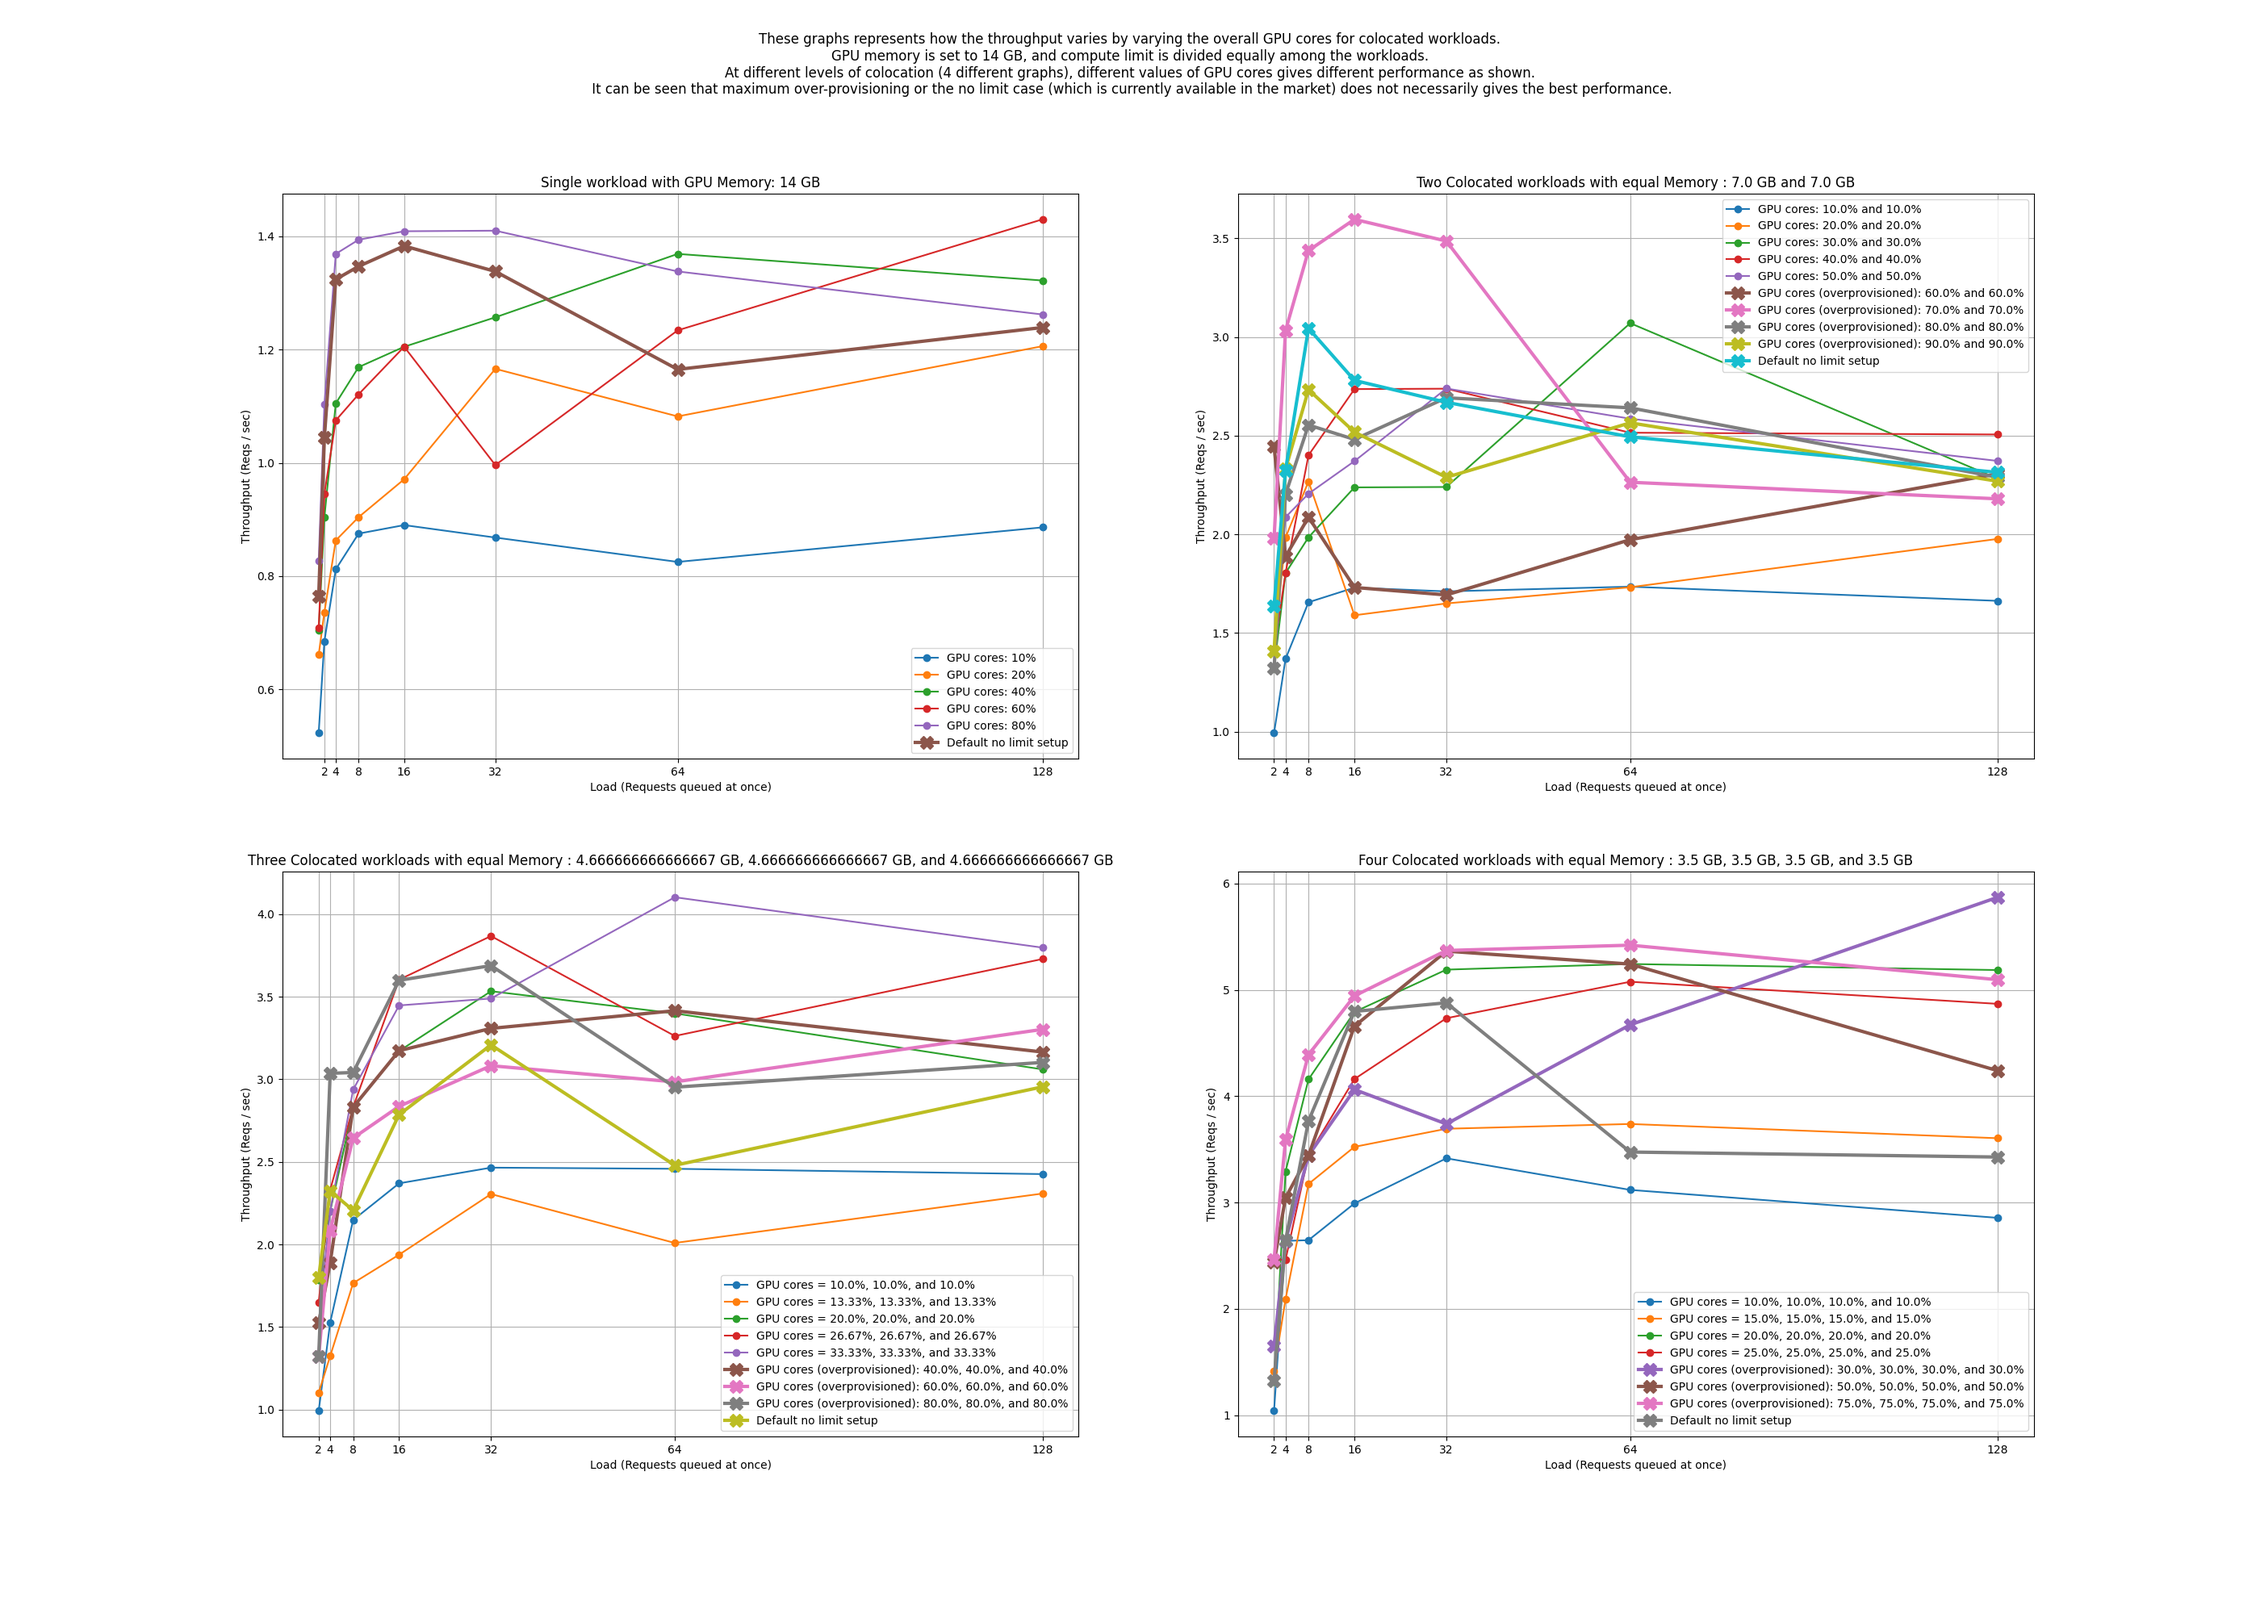
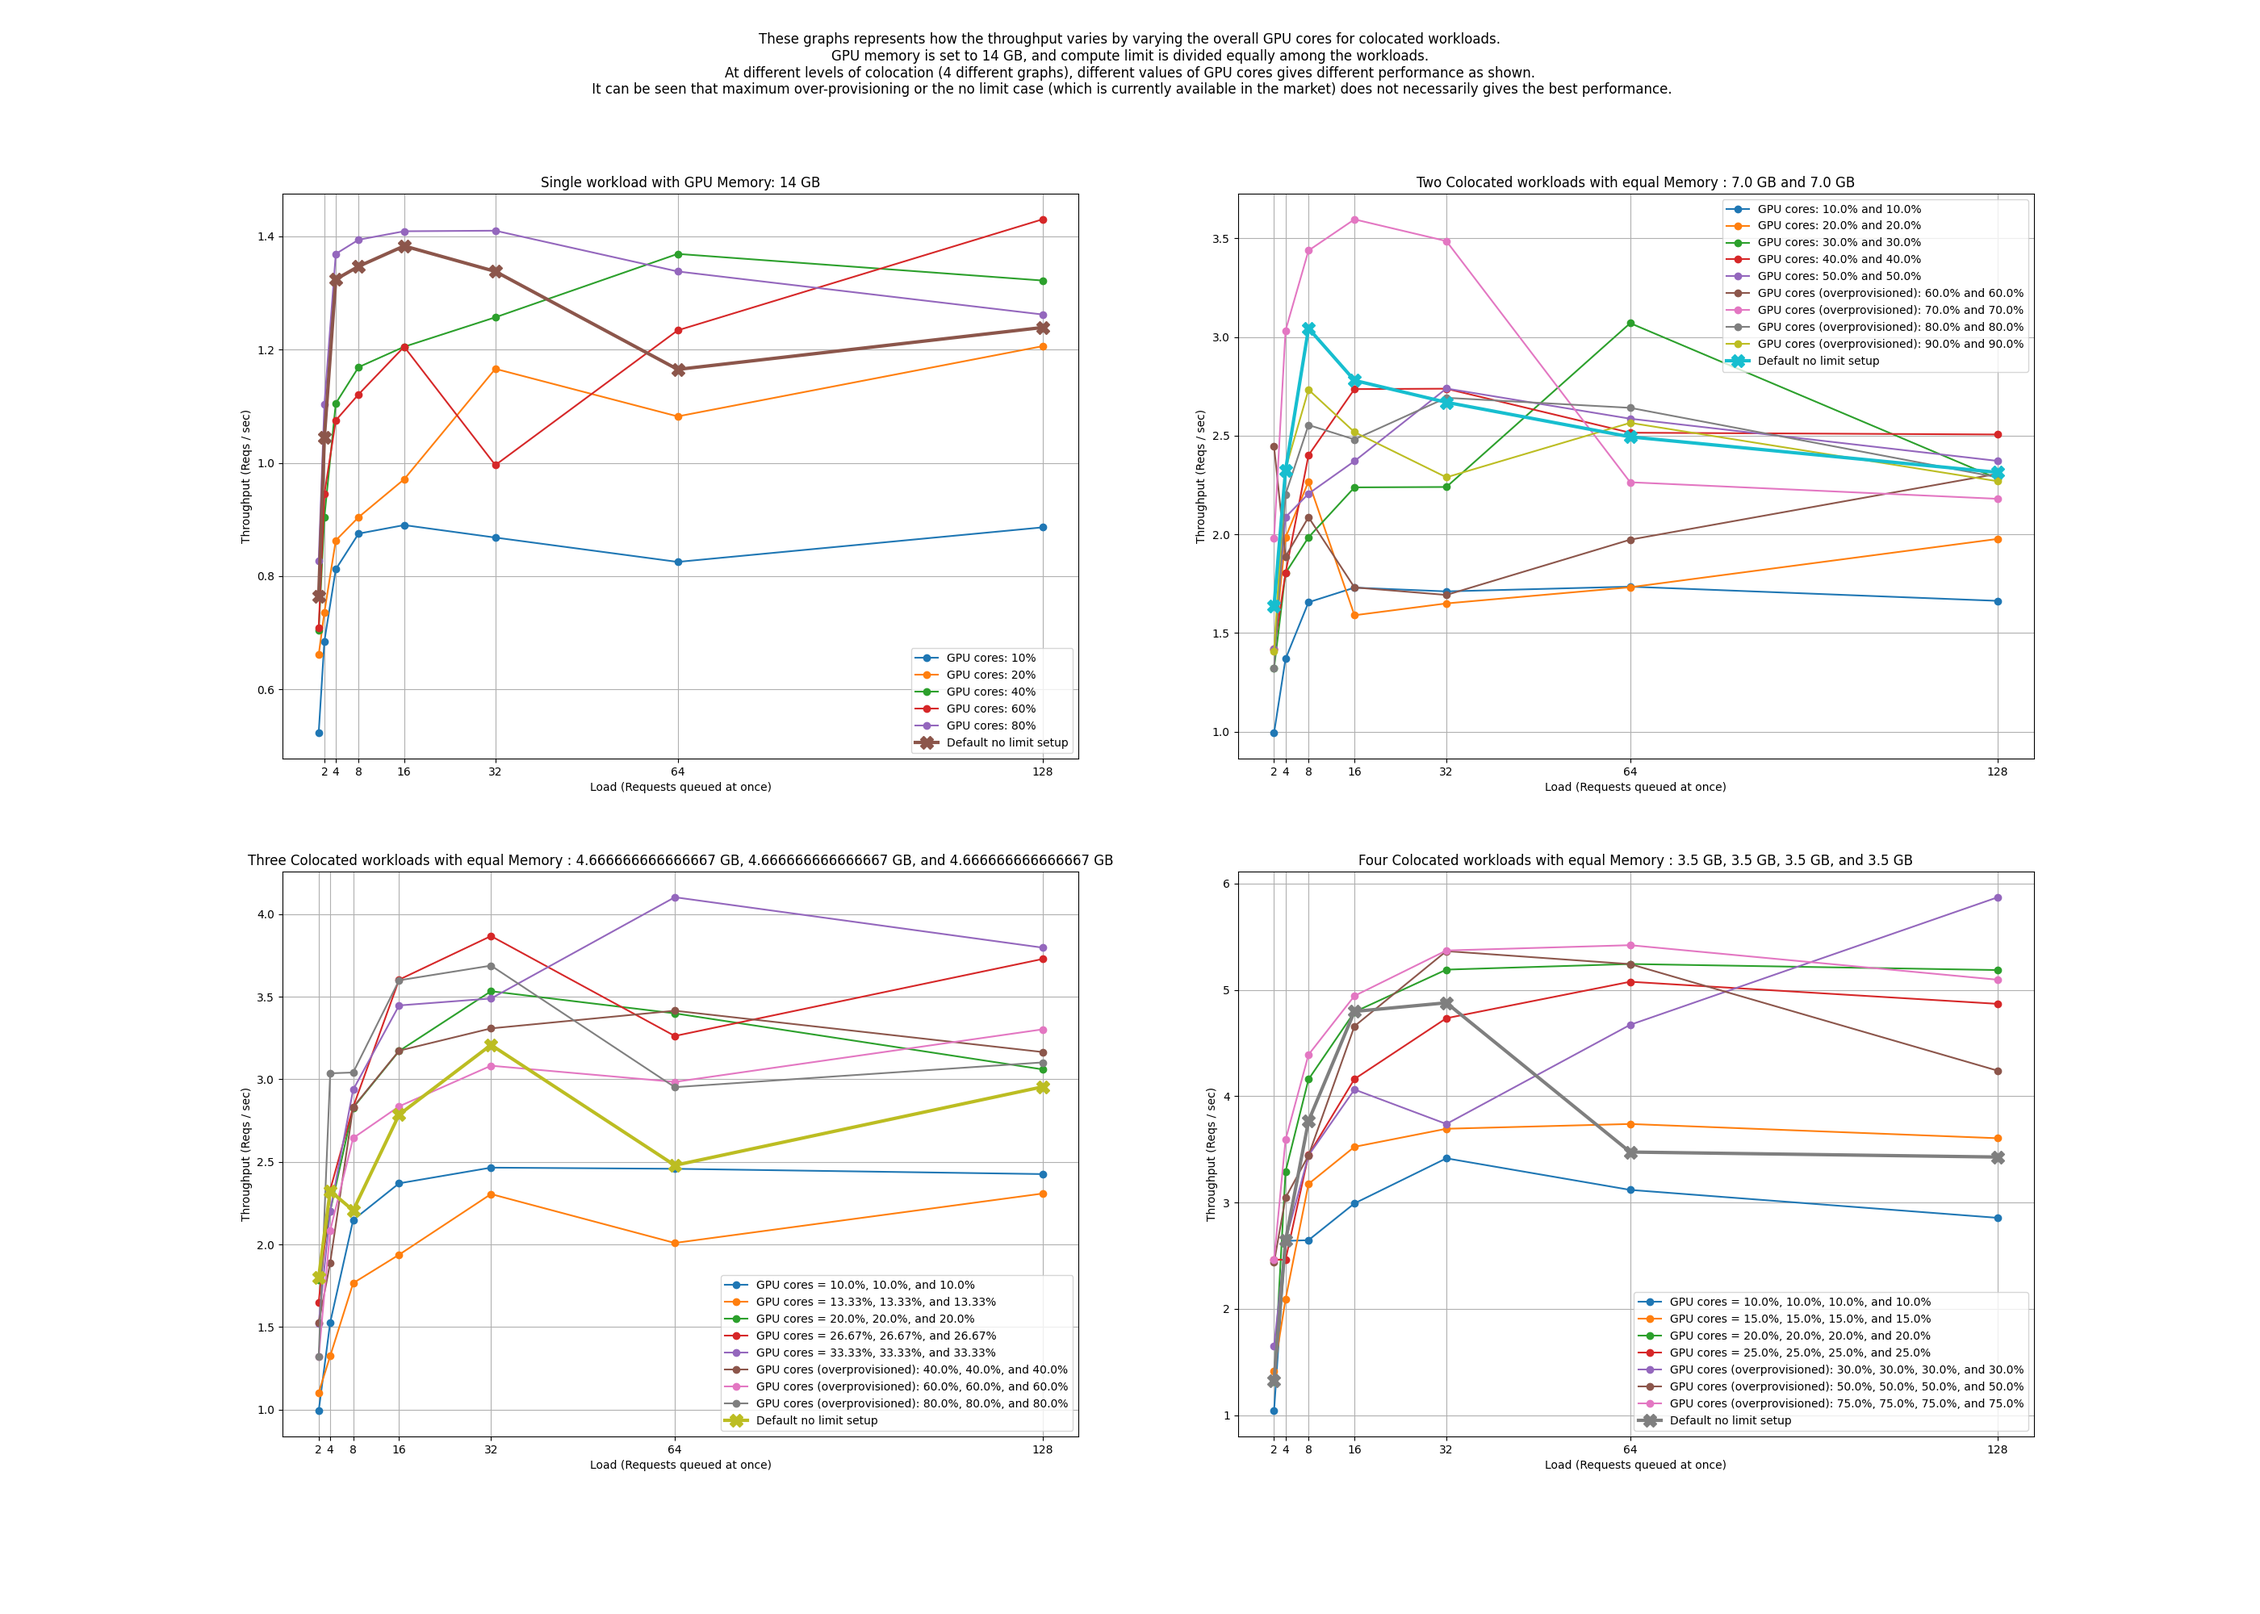
fixed the graph

diff --git a/profiler/colocation/overcommitment/test.py b/profiler/colocation/overcommitment/test.py
@@ -69,7 +69,7 @@ for mem in memory:
         if com == 200:
             plt.plot(subset['load'], subset['throughput'], marker='X', markersize=12, linewidth = 3, label=f'Default no limit setup')
         elif com > 100:
-            plt.plot(subset['load'], subset['throughput'], marker='X', markersize=12, linewidth = 3, label=f'GPU cores (overprovisioned): {com/2}% and {com/2}%')
+            plt.plot(subset['load'], subset['throughput'], marker='o', label=f'GPU cores (overprovisioned): {com/2}% and {com/2}%')
         else:
             plt.plot(subset['load'], subset['throughput'], marker='o', label=f'GPU cores: {com/2}% and {com/2}%')
     
@@ -87,7 +87,7 @@ for mem in memory:
         if com == 300:
             plt.plot(subset['load'], subset['throughput'], marker='X', markersize=12, linewidth = 3, label=f'Default no limit setup')
         elif com > 100:
-            plt.plot(subset['load'], subset['throughput'], marker='X', markersize=12, linewidth = 3, label=f'GPU cores (overprovisioned): {round(com/3, 2)}%, {round(com/3, 2)}%, and {round(com/3, 2)}%')
+            plt.plot(subset['load'], subset['throughput'], marker='o', label=f'GPU cores (overprovisioned): {round(com/3, 2)}%, {round(com/3, 2)}%, and {round(com/3, 2)}%')
         else:
             plt.plot(subset['load'], subset['throughput'], marker='o', label=f'GPU cores = {round(com/3, 2)}%, {round(com/3, 2)}%, and {round(com/3, 2)}%')
         
@@ -106,7 +106,7 @@ for mem in memory:
         if com == 400:
             plt.plot(subset['load'], subset['throughput'], marker='X', markersize=12, linewidth = 3, label=f'Default no limit setup')
         elif com > 100:
-            plt.plot(subset['load'], subset['throughput'], marker='X', markersize=12, linewidth = 3, label=f'GPU cores (overprovisioned): {com/4}%, {com/4}%, {com/4}%, and {com/4}%')
+            plt.plot(subset['load'], subset['throughput'], marker='o', label=f'GPU cores (overprovisioned): {com/4}%, {com/4}%, {com/4}%, and {com/4}%')
         else:
             plt.plot(subset['load'], subset['throughput'], marker='o', label=f"GPU cores = {com/4}%, {com/4}%, {com/4}%, and {com/4}%")
     
